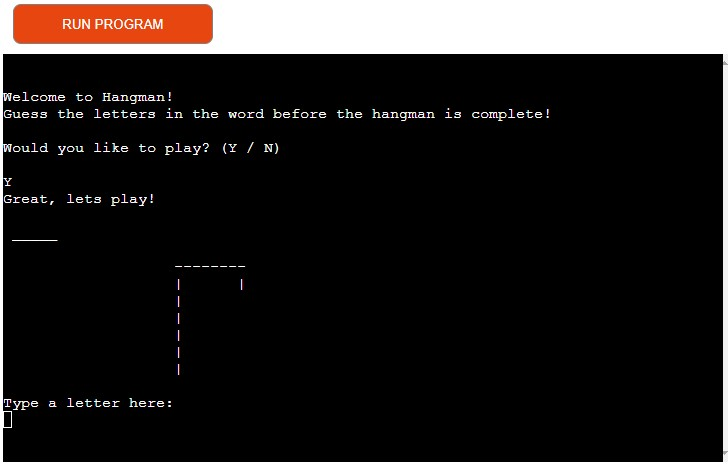
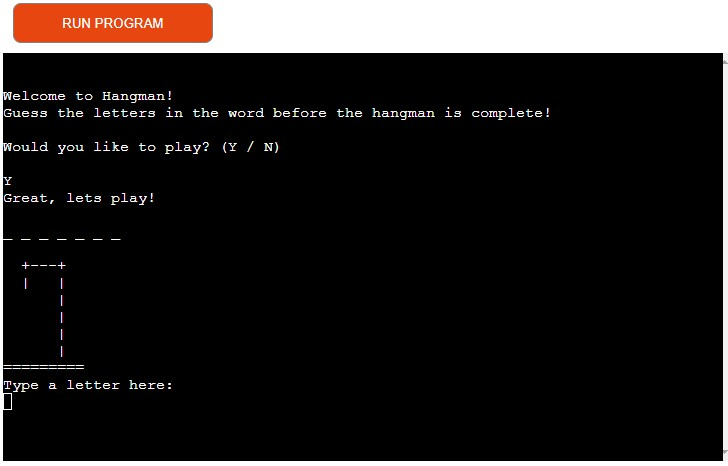
Final commit to make sure link to work is up to date as requested by student care team

diff --git a/run.py b/run.py
@@ -98,7 +98,7 @@ def user_guess_result(word_length, letters_guessed, stage):
     :param letters_guessed: List of letters user has already guessed.
     :param stage: The stage of the hangman.
     '''
-    print(" " + word_length)
+    print("_" + word_length)
     print("\n")
     print('Letters guessed:' + ' ' + ', '.join(letters_guessed))
     display_hangman(stage)

diff --git a/README.md b/README.md
@@ -104,17 +104,17 @@ The user answer was incorrect. Then they will see their guess added to the lette
 
 The user answer was correct. They will see a message telling them their guess was correct. Then they will see their guess added to the word and the letters guessed list.
 
-![Screenshot of correct answer](./docs/correct.jpg)
+![Screenshot of correct answer](./docs/correct1.jpg)
 
 The user answer was already guessed, whether it was correct or not. Again this can be in lower or upper case. They will see the already guessed messaged and be asked for another input.
 
 Examples of already guessed correct and incorrect letters in upper or lower case:
 
-![Screenshot of users answer already guessed](./docs/guessed2.jpg)
+![Screenshot of users answer already guessed](./docs/guessed3.jpg)
 
 - The user can continue to guess until either the hangman or the word is complete. If the hangman is complete, the user has lost and they are told that they ran out of guesses. They can see what the word actually was, before the play question from the begining is asked again. The steps are then repeated.
 
-![Screenshot of user loosing the game](./docs/loose.jpg)
+![Screenshot of user loosing the game](./docs/loose1.jpg)
 
 - If the word is complete and the user has won, they are congratulated. The play question from the begining is asked again and the steps are repeated.
 
@@ -156,6 +156,10 @@ Before fix:
 After fix:
 
 ![Screenshot of code after bug fix ](./docs/bug2.jpg)
+
+- CURRENT BUG: I currently have bug where the spaces between the underscores do not show up after the user has guessed a letter. I've spent a long time trynig to fix this, even a tutor could not fix the problem after an hour of us trying different things. Unfortunately I have run out of time to try fixing it and will have to leave it as it is. The game is still playable but the word is harder to see without the underscores. 
+
+![Screenshot of code with bug underlined in red ](./docs/bug3.jpg)
 
 ---
 
